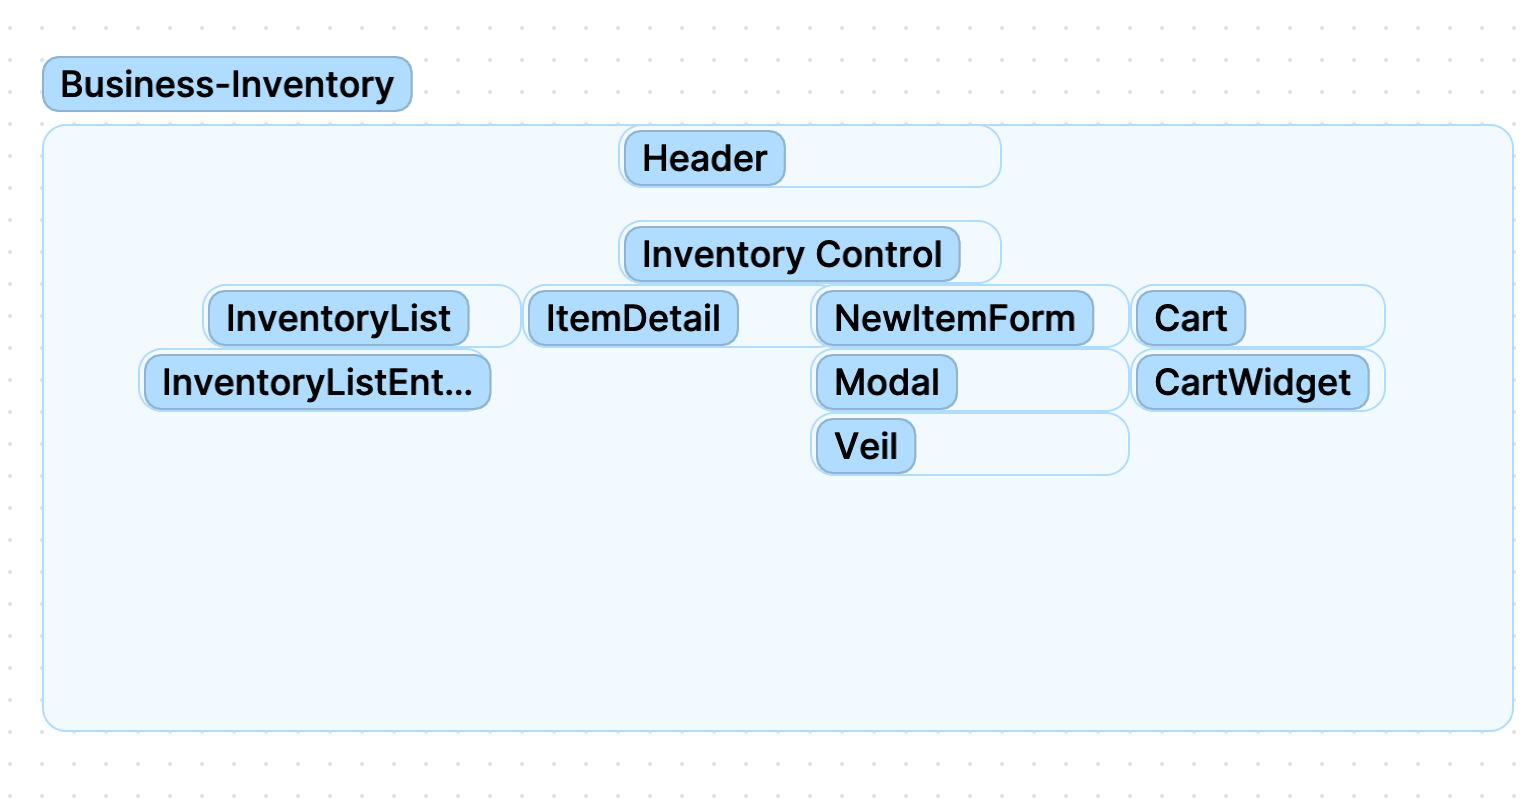
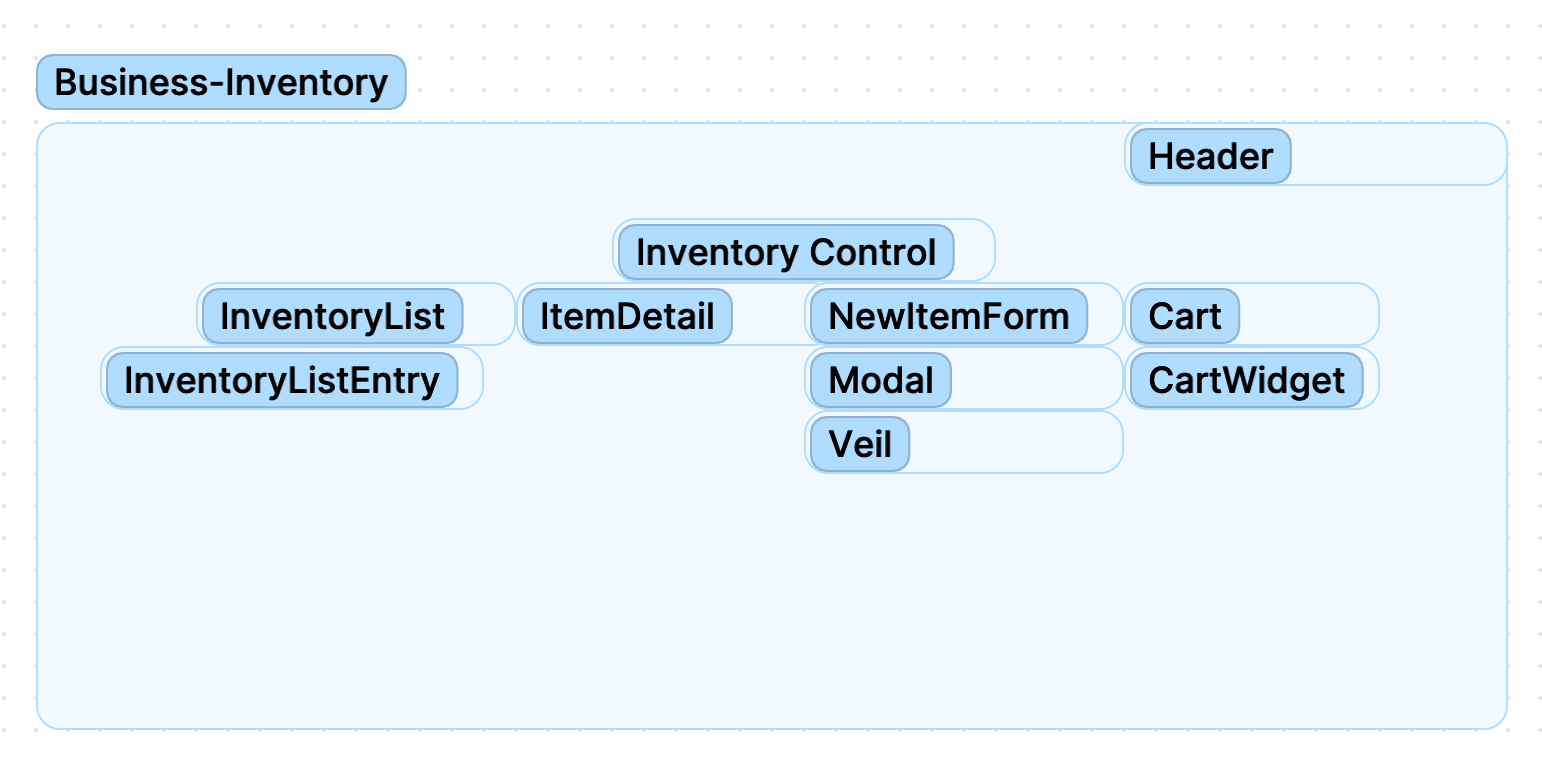
Update component architecture.

diff --git a/README.md b/README.md
@@ -1,4 +1,4 @@
-#  Farmers Market
+#  Local Business Inventory Tracker
 
 #### By Vera Weikel 
 
@@ -7,20 +7,18 @@
 ## Technologies Used
 
 * React
+* JSX
 * Javascript
+* CSS
 
 ## Goals/Objectives
 
-This project shows how to maintain state in React.
-
-There are multiple branches in this repo that are described more below.
+An application in React that tracks inventory for a local business.
 
 
 ## Description
 
-Avery's Organics is a mid-sized farm in Northern Oregon that grows organic produce and sells it at farmers markets throughout town. Since Avery's is at a different market almost every day, they've started a website to show customers which market they will be at on a given day.
-
-Avery's also grows different crops in different seasons. They'd like to display what produce is available during which months on their site too.
+For any given inventory item, there will be tracking how much of it is remaining as it gets sold or given away. 
 
 ## Component Architecture
 
